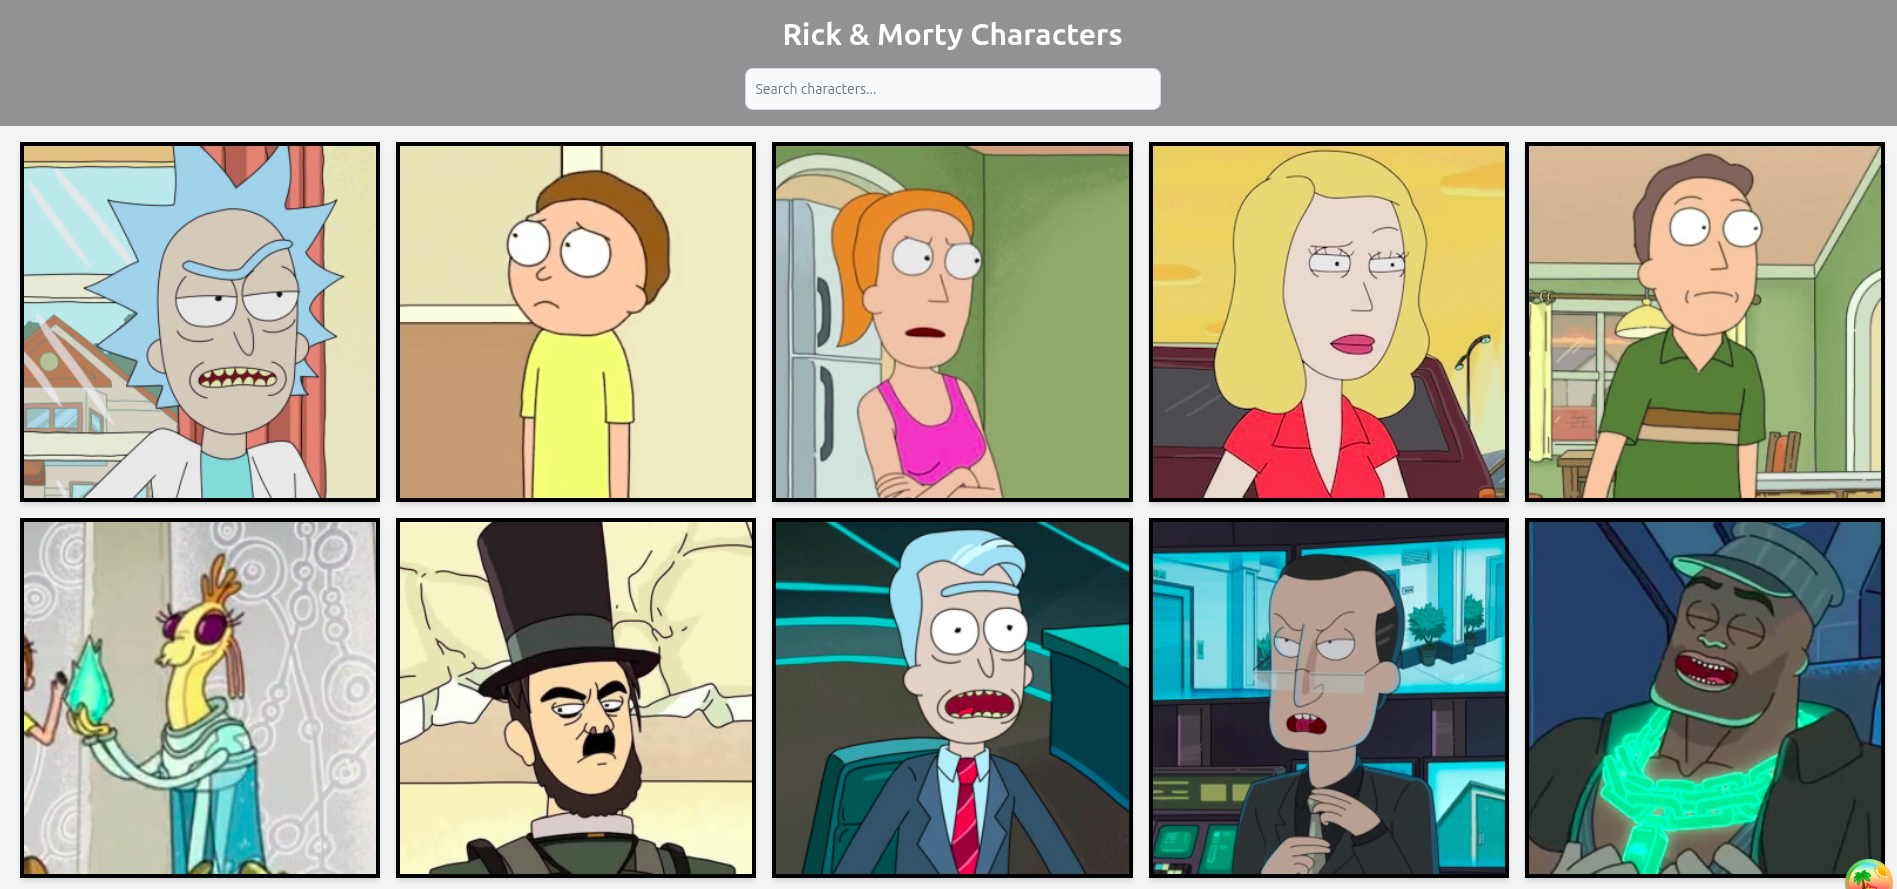
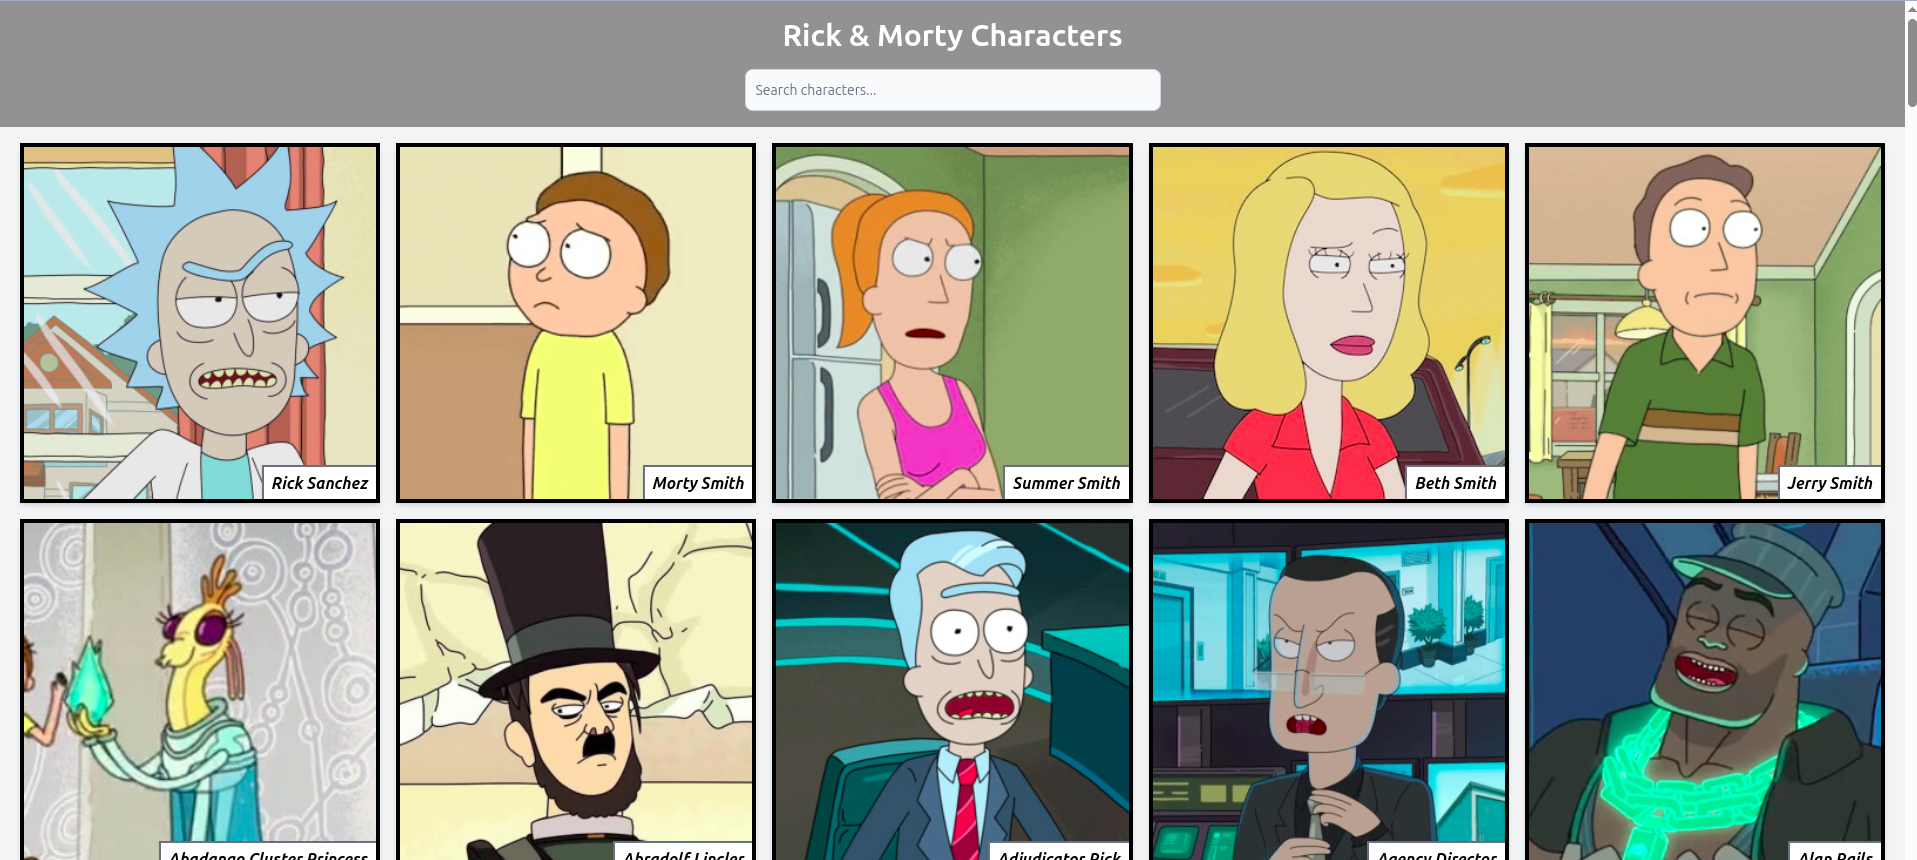
Updated the details and readme file

diff --git a/src/pages/character/components/characterDetails.tsx b/src/pages/character/components/characterDetails.tsx
@@ -1,11 +1,12 @@
 import React from "react";
-import { useParams } from "react-router-dom";
+import { useParams, useNavigate } from "react-router-dom";
 import { useFetchCharacter } from "../services/useCharacterApi";
 import { Character } from "../../../core/interface/CharacterInterface";
-import { Spinner } from "flowbite-react";
+import { Spinner, Button } from "flowbite-react";
 
 const CharacterDetails: React.FC = () => {
   const { id } = useParams<{ id: string }>();
+  const navigate = useNavigate();
   const { data, isLoading } = useFetchCharacter(id);
   const character: Character | undefined = data;
 
@@ -31,37 +32,38 @@ const CharacterDetails: React.FC = () => {
   const createdDate = new Date(character.created).toLocaleDateString();
 
   return (
-    <div className="min-h-screen bg-gray-100 p-6 flex flex-col items-center">
-      <h1 className="text-3xl font-bold text-center text-blue-800 mb-6">
-        {character.name}
-      </h1>
+    <div className="min-h-screen bg-gradient-to-br from-gray-100 to-blue-100 py-10 px-6 flex flex-col items-center">
+      <div className="w-full max-w-4xl bg-white border-2 border-black rounded-xl shadow-lg flex flex-col md:flex-row overflow-hidden">
+        <div className="md:w-1/2 bg-gray-200">
+          <img
+            src={character.image}
+            alt={character.name}
+            className="object-cover w-full h-full"
+          />
+        </div>
 
-      <div className="bg-white border-4 border-black rounded-md shadow-md p-4 max-w-md w-full">
-        <img
-          src={character.image}
-          alt={character.name}
-          className="w-full h-auto rounded mb-4"
-        />
-        <ul className="text-md space-y-2 text-gray-800">
-          <li>
-            <strong>Status:</strong> {character.status}
-          </li>
-          <li>
-            <strong>Species:</strong> {character.species}
-          </li>
-          <li>
-            <strong>Gender:</strong> {character.gender}
-          </li>
-          <li>
-            <strong>Origin:</strong> {character.origin.name}
-          </li>
-          <li>
-            <strong>Location:</strong> {character.location.name}
-          </li>
-          <li>
-            <strong>Created At:</strong> {createdDate}
-          </li>
-        </ul>
+        <div className="md:w-1/2 p-6 flex flex-col justify-between">
+          <div>
+            <h1 className="text-3xl font-bold text-blue-800 mb-4">
+              {character.name}
+            </h1>
+            <ul className="text-gray-800 text-md space-y-2">
+              <li><strong>Status:</strong> {character.status}</li>
+              <li><strong>Species:</strong> {character.species}</li>
+              <li><strong>Gender:</strong> {character.gender}</li>
+              <li><strong>Origin:</strong> {character.origin.name}</li>
+              <li><strong>Location:</strong> {character.location.name}</li>
+              <li><strong>Created At:</strong> {createdDate}</li>
+            </ul>
+          </div>
+
+          {/* Go Back Button */}
+          <div className="mt-6">
+            <Button color="gray" onClick={() => navigate(-1)} fullSized>
+              ← Go Back
+            </Button>
+          </div>
+        </div>
       </div>
     </div>
   );

diff --git a/src/pages/character/components/characters.tsx b/src/pages/character/components/characters.tsx
@@ -55,12 +55,20 @@ const Characters: React.FC = () => {
           return (
             <Link to={`/character/${character.id}`} key={character.id}>
               <div
-                className="relative overflow-hidden border-4 border-black bg-white shadow-md hover:scale-105 transition-transform cursor-pointer">
+                className="group relative overflow-hidden border-4 border-black bg-white shadow-md hover:scale-105 transition-transform cursor-pointer">
                 <img src={character.image} alt={character.name} className="w-full"/>
+
                 <div
-                  className="absolute inset-0 bg-black bg-opacity-60 opacity-0 hover:opacity-100 transition-opacity duration-300 flex flex-col justify-end p-2">
+                  className="absolute bottom-0 right-0 text-sm sm:text-base font-bold italic shadow text-right z-10 group-hover:opacity-0 transition-opacity duration-300">
+                  <p className="bg-white px-2 py-1 border-t-2 border-l-2 border-gray-500">
+                    {character.name}
+                  </p>
+                </div>
+
+                <div
+                  className="absolute inset-0 bg-black bg-opacity-60 opacity-0 group-hover:opacity-100 transition-opacity duration-300 flex flex-col justify-end p-2 z-20">
                   <span
-                    className="absolute top-1 right-1 bg-white text-xs sm:text-sm px-1 py-[2px] rounded shadow text-gray-700 font-medium">
+                    className="absolute top-0 right-0 bg-white text-xs sm:text-sm px-1 py-[2px] rounded text-gray-700 font-medium">
                     {createdDate}
                   </span>
                   <p className="text-white text-lg sm:text-xl font-bold italic">{character.name}</p>
@@ -69,6 +77,7 @@ const Characters: React.FC = () => {
                   </p>
                 </div>
               </div>
+
             </Link>
           );
         })}

diff --git a/README.md b/README.md
@@ -1,4 +1,4 @@
-# Getting Started with Create React App
+# Rick & Morty Characters
 
 This project was bootstrapped with [Create React App](https://github.com/facebook/create-react-app).
 
@@ -8,44 +8,21 @@ In the project directory, you can run:
 
 ### `npm start`
 
-Runs the app in the development mode.\
-Open [http://localhost:3000](http://localhost:3000) to view it in the browser.
-
-The page will reload if you make edits.\
-You will also see any lint errors in the console.
-
-### `npm test`
-
-Launches the test runner in the interactive watch mode.\
-See the section about [running tests](https://facebook.github.io/create-react-app/docs/running-tests) for more information.
+Runs the app in development mode.  
+Open [http://localhost:3000](http://localhost:3000) to view it in the browser.  
+The page will reload if you make edits.
 
 ### `npm run build`
 
-Builds the app for production to the `build` folder.\
-It correctly bundles React in production mode and optimizes the build for the best performance.
-
-The build is minified and the filenames include the hashes.\
-Your app is ready to be deployed!
-
-See the section about [deployment](https://facebook.github.io/create-react-app/docs/deployment) for more information.
-
-### `npm run eject`
-
-**Note: this is a one-way operation. Once you `eject`, you can’t go back!**
-
-If you aren’t satisfied with the build tool and configuration choices, you can `eject` at any time. This command will remove the single build dependency from your project.
-
-Instead, it will copy all the configuration files and the transitive dependencies (webpack, Babel, ESLint, etc) right into your project so you have full control over them. All of the commands except `eject` will still work, but they will point to the copied scripts so you can tweak them. At this point you’re on your own.
-
-You don’t have to ever use `eject`. The curated feature set is suitable for small and middle deployments, and you shouldn’t feel obligated to use this feature. However we understand that this tool wouldn’t be useful if you couldn’t customize it when you are ready for it.
+Builds the app for production to the `build` folder.  
+It bundles React in production mode and optimizes the build for best performance.
 
 ## Learn More
 
-You can learn more in the [Create React App documentation](https://facebook.github.io/create-react-app/docs/getting-started).
+- [React documentation](https://reactjs.org/)
+- [Create React App documentation](https://facebook.github.io/create-react-app/docs/getting-started)
 
-To learn React, check out the [React documentation](https://reactjs.org/).
-
-## Images
+## Preview
 
 ![App Preview](./assets/img.png)
 ![App Preview](./assets/img_1.png)
